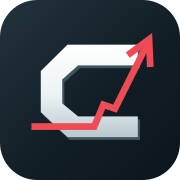
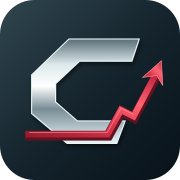
Add files via upload

diff --git a/app.js b/app.js
@@ -1,6 +1,6 @@
-import {sceneSvg} from './scene.js?v=1.2.0';
+import {sceneSvg} from './scene.js?v=1.3.0';
 
-const APP_VERSION='1.2.0';
+const APP_VERSION='1.3.0';
 const SAVE_KEY='clubline-career-r1';
 const SITES=[['city','Old Town'],['harbour','Harbourfront'],['university','University Quarter'],['gardens','Civic Gardens'],['rail','Rail District']];
 const COLOURS=['#862e43','#de414b','#e17837','#e7bd63','#257b5e','#1b8189','#3a6cbc','#633d8d','#edf0e9','#252c38'];
@@ -25,6 +25,9 @@ try {source=await (await fetch('./data/league.json',{cache:'no-store'})).json();
 catch(error){root.innerHTML='<main class="app-shell"><div class="shell-content"><h1>Clubline</h1><p>Could not load the league data. Open the game through a web server or GitHub Pages.</p></div></main>';throw error;}
 const club=id=>source.clubs.find(c=>c.id===id);
 const player=id=>source.players.find(p=>p.id===id);
+const owner=id=>career?.owners?.[id]||player(id)?.clubId;
+const squadPlayers=id=>source.players.filter(p=>owner(p.id)===id);
+const transferValue=p=>Math.round((p.overall-55)**2*4500+Math.max(0,p.potential-p.overall)*22000);
 const myClub=()=>club(career?.clubId||setup.clubId);
 const clubName=id=>career?.names?.[id]||setup.names?.[id]||club(id)?.name||id;
 const myColour=()=>career?.colour||setup.colour||myClub()?.colour||'#e5484f';
@@ -33,7 +36,7 @@ const slotsFor=f=>FORMATIONS[f||'4-3-3'].flat();
 const opposition=(fixture,me)=>fixture.home===me?fixture.away:fixture.home;
 
 function bestLineup(clubId,formation){
- const pool=source.players.filter(p=>p.clubId===clubId);
+ const pool=squadPlayers(clubId);
  const remaining=pool.filter(p=>!(career?.clubId===clubId&&career?.players?.[p.id]?.injuryDays>0));
  const slots=slotsFor(formation);
  const lineup=slots.map(pos=>{
@@ -60,11 +63,11 @@ function scheduleSeason(){
 }
 function newCareer(){
  const c=club(setup.clubId),choice=bestLineup(c.id,c.formation);
- career={version:1,clubId:c.id,names:{...setup.names},colour:setup.colour||c.colour,site:setup.site,date:'2026-08-13',time:'09:00',balance:c.budget*5,formation:c.formation,style:c.style,order:'Standard',lineup:choice.lineup,bench:choice.bench,players:Object.fromEntries(source.players.map(p=>[p.id,{fitness:p.fitness,form:[]}])),schedule:scheduleSeason(),reports:[],news:[],kit:{home:'solid',away:'stripes'}};
+ career={version:1,clubId:c.id,names:{...setup.names},colour:setup.colour||c.colour,site:setup.site,date:'2026-08-13',time:'09:00',balance:c.budget*5,formation:c.formation,style:c.style,order:'Standard',lineup:choice.lineup,bench:choice.bench,players:Object.fromEntries(source.players.map(p=>[p.id,{fitness:p.fitness,form:[]}])),owners:{},transferList:[],offers:[],schedule:scheduleSeason(),reports:[],news:[],kit:{home:'solid',away:'stripes'}};
  view='career';section='squad';sub='lineup';save();render();
 }
 function save(){if(career)localStorage.setItem(SAVE_KEY,JSON.stringify({career,match}));}
-function load(){try{const saved=JSON.parse(localStorage.getItem(SAVE_KEY));if(saved?.career?.version===1){career=saved.career;match=saved.match||null;return true}}catch{}return false}
+function load(){try{const saved=JSON.parse(localStorage.getItem(SAVE_KEY));if(saved?.career?.version===1){career=saved.career;career.owners??={};career.transferList??=[];career.offers??=[];match=saved.match||null;return true}}catch{}return false}
 const hasSave=()=>{try{return JSON.parse(localStorage.getItem(SAVE_KEY))?.career?.version===1}catch{return false}};
 function nextFixture(){if(!career)return null;for(const round of career.schedule){const f=round.fixtures.find(x=>(x.home===career.clubId||x.away===career.clubId)&&x.homeGoals===null);if(f)return {...f,date:round.date,round}}return null}
 function allResults(){return career.schedule.flatMap(r=>r.fixtures.filter(f=>f.homeGoals!==null).map(f=>({...f,date:r.date})))}
@@ -77,7 +80,7 @@ function standings(){
  return Object.values(table).sort((a,b)=>b.Pts-a.Pts||(b.GF-b.GA)-(a.GF-a.GA)||b.GF-a.GF||clubName(a.id).localeCompare(clubName(b.id)));
 }
 function toast(message){notice=message;document.querySelector('.toast')?.remove();const div=document.createElement('div');div.className='toast';div.textContent=message;document.body.appendChild(div);setTimeout(()=>div.remove(),3500)}
-function scene(current,site,open=false){return `<div class="scene ${open?'open':''}">${sceneSvg(current,site)}</div>`}
+function scene(current,site,open=false,crowd=false){return `<div class="scene ${open?'open':''}">${sceneSvg(current,site,crowd)}</div>`}
 function logo(small=false){return `<img class="logo ${small?'small':''}" src="assets/clubline-logo.svg?v=${APP_VERSION}" alt="Clubline">`}
 function titleView(){const c=club('C01');return `<div class="app-shell title-screen" style="--club:${c.colour}">${scene(c,'city',true)}<div class="shell-content"><div class="menu-hero"><div class="hero-copy glass">${logo()}<p class="title-tagline">Your club. Your call.</p><div class="hero-actions"><button class="btn primary arrow wide" data-action="new-game">New career</button>${hasSave()?'<button class="btn wide" data-action="continue">Continue</button>':''}</div><small>12 clubs · Premier Division · 22 fixtures</small><div class="update-area"><button class="btn ghost slim" data-action="check-update" ${checkingUpdate?'disabled':''}>${checkingUpdate?'Checking…':'↻ Check for updates'}</button><span class="build-label">v${APP_VERSION}</span>${availableVersion?'<button class="btn slim primary" data-action="load-update">Load update</button>':''}${updateMessage?`<p role="status">${html(updateMessage)}</p>`:''}</div></div></div></div></div>`}
 async function checkForUpdates(){
@@ -101,30 +104,36 @@ function setupView(){
 }
 
 function topbar(){const next=nextFixture();return `<header class="topbar">${logo(true)}<div class="top-pill"><small>Date / time</small><b>${fmtDate(career.date)} · ${career.time}</b></div><div class="top-pill"><small>Club balance</small><b class="money">${fmtMoney(career.balance)}</b></div><div class="top-pill"><small>Next match</small><b>${next?`${next.home===career.clubId?'H':'A'} · ${html(clubName(opposition(next,career.clubId)))}`:'Season complete'}</b></div><button class="btn slim ghost" data-action="menu">Menu</button></header>`}
-function dashboard(){const c=myClub(),next=nextFixture(),awayScene=match&&match.home!==career.clubId,backdrop=awayScene?club(match.home):{...c,colour:myColour()};return `<div class="app-shell" style="--club:${myColour()}">${scene(backdrop,awayScene?'city':career.site)}<div class="shell-content">${topbar()}<div class="dash-grid"><div><div class="glass panel welcome"><span class="eyebrow">${html(c.ground)} / ${c.capacity.toLocaleString('en-GB')} seats</span><h1>${html(clubName(c.id))}</h1><div class="next-line">${next?`Next: ${next.home===c.id?'at home to':'away at'} ${html(clubName(opposition(next,c.id)))} · ${fmtDate(next.date)}`:'The league season is complete.'}</div></div><nav class="section-nav" aria-label="Club sections">${[['squad','Squad'],['facilities','Facilities'],['finances','Finances'],['organiser','Organiser']].map(([id,label])=>`<button class="btn ${section===id?'active':''}" data-action="section" data-section="${id}">${label}</button>`).join('')}</nav></div><div class="glass panel section-content">${sectionContent()}</div></div><div class="advance-dock"><button class="btn primary arrow" data-action="advance">${next&&career.date===next.date?'Matchday':'Advance time'}</button><span>${next?`${next.date===career.date?'Kick-off event ahead':'Next fixture '+fmtDate(next.date)}`:'Season finished'}</span></div></div>${match?matchOverlay():''}</div>`}
+function dashboard(){const c=myClub(),next=nextFixture(),homeMatch=match&&match.home===career.clubId;return `<div class="app-shell" style="--club:${myColour()}">${scene({...c,colour:myColour()},career.site,false,homeMatch)}<div class="shell-content">${topbar()}<div class="dash-grid"><div><div class="glass panel welcome"><span class="eyebrow">${html(c.ground)} / ${c.capacity.toLocaleString('en-GB')} seats</span><h1>${html(clubName(c.id))}</h1><div class="next-line">${next?`Next: ${next.home===c.id?'at home to':'away at'} ${html(clubName(opposition(next,c.id)))} · ${fmtDate(next.date)}`:'The league season is complete.'}</div></div><nav class="section-nav" aria-label="Club sections">${[['squad','Squad'],['facilities','Facilities'],['finances','Finances'],['organiser','Organiser']].map(([id,label])=>`<button class="btn ${section===id?'active':''}" data-action="section" data-section="${id}">${label}</button>`).join('')}</nav></div><div class="glass panel section-content">${sectionContent()}</div></div><div class="advance-dock"><button class="btn primary arrow" data-action="advance">${next&&career.date===next.date?'Matchday':'Advance time'}</button><span>${next?`${next.date===career.date?'Kick-off event ahead':'Next fixture '+fmtDate(next.date)}`:'Season finished'}</span></div></div>${match?matchOverlay():''}${career.offers?.some(o=>o.status==='new')?`<button class="offer-alert" data-action="open-offers">Transfer offer received · Review →</button>`:''}</div>`}
 
 function sectionContent(){return section==='squad'?squadSection():section==='facilities'?facilitiesSection():section==='finances'?financesSection():organiserSection()}
 
 function tabBar(items){return `<div class="tabs">${items.map(([key,label])=>`<button class="btn ${sub===key?'selected':''}" data-action="sub" data-sub="${key}">${label}</button>`).join('')}</div>`}
 function squadSection(){
- const tabs=[['lineup','Starting XI'],['formation','Formation'],['style','Play style'],['orders','Orders'],['form','Form charts']];
+ const tabs=[['lineup','Starting XI'],['transfers','Transfers'],['formation','Formation'],['style','Play style'],['orders','Orders'],['form','Form charts']];
  let content='';
  if(sub==='lineup') content=lineupEditor(false);
+ if(sub==='transfers') content=transfersSection();
  if(sub==='formation') content=`<p>Choose a shape. The current players stay in their positions until you arrange them again.</p><div class="choice-grid">${Object.keys(FORMATIONS).map(f=>`<button class="btn ${career.formation===f?'selected':''}" data-action="formation" data-value="${f}">${f}</button>`).join('')}</div>`;
  if(sub==='style') content=`<p>Your approach changes how many chances your side creates and concedes.</p><div class="choice-grid">${STYLES.map(x=>`<button class="btn ${career.style===x?'selected':''}" data-action="style" data-value="${x}">${x}</button>`).join('')}</div>`;
  if(sub==='orders') content=`<p>Set an overall match instruction. You can change this during a watched game.</p><div class="choice-grid">${ORDERS.map(x=>`<button class="btn ${career.order===x?'selected':''}" data-action="order" data-value="${x}">${x}</button>`).join('')}</div>`;
  if(sub==='form') content=`<p>Recent league results and the players who have stood out.</p><div class="list">${career.reports.slice(-5).reverse().map(r=>`<div class="row"><span>${fmtDate(r.date)} · ${html(clubName(r.opponent))}</span><b>${r.us}-${r.them}</b></div>`).join('')||'<div class="empty-note">No games played yet.</div>'}</div><div class="divider"></div><div class="list">${career.lineup.map(id=>{const p=player(id),form=career.players[id].form;return `<div class="row"><span>${html(p.name)} <small>${p.primary}</small></span><b>${form.length?(form.reduce((a,b)=>a+b,0)/form.length).toFixed(1):'—'}</b></div>`}).join('')}</div>`;
  return `<span class="eyebrow">Football / Squad</span><h2>Shape your eleven</h2>${tabBar(tabs)}${content}`;
 }
+function transfersSection(){
+ const listed=source.players.filter(p=>owner(p.id)!==career.clubId).filter(p=>career.transferList.includes(p.id)||p.overall<72).sort((a,b)=>b.overall-a.overall).slice(0,35);
+ const my=squadPlayers(career.clubId).sort((a,b)=>b.overall-a.overall);
+ return `<p>Scout the division, inquire about availability, and negotiate a fee. Clubs can accept, reject or counter an offer.</p><h3>Transfer proposals</h3><div class="list">${career.offers.filter(o=>o.status==='new'||o.status==='counter').map(o=>`<div class="transfer-row"><span><b>${html(player(o.id).name)}</b><small>${o.incoming?'Your bid to '+html(clubName(o.clubId)):html(clubName(o.clubId))+' bid'} · ${fmtMoney(o.fee)} ${o.status==='counter'?'counteroffer':'offer'}</small></span><button class="btn slim primary" data-action="accept-offer" data-id="${o.id}" data-club="${o.clubId}">Accept</button><button class="btn slim" data-action="counter-offer" data-id="${o.id}" data-club="${o.clubId}">${o.incoming?'Wait':'Counter'}</button><button class="btn slim ghost" data-action="reject-offer" data-id="${o.id}" data-club="${o.clubId}">Reject</button></div>`).join('')||'<div class="empty-note">No proposals waiting.</div>'}</div><h3>Your squad · ${my.length} players</h3><div class="transfer-list">${my.map(p=>`<div class="transfer-row"><span><b>${html(p.name)}</b><small>${p.primary} · ${p.overall} OVR · value ${fmtMoney(transferValue(p))}</small></span><button class="btn slim ${career.transferList.includes(p.id)?'selected':''}" data-action="list-player" data-id="${p.id}">${career.transferList.includes(p.id)?'Listed ✓':'List'}</button></div>`).join('')}</div><h3>Market</h3><div class="transfer-list">${listed.map(p=>`<div class="transfer-row"><span><b>${html(p.name)}</b><small>${html(clubName(owner(p.id)))} · ${p.primary} · ${p.overall} OVR · ${fmtMoney(transferValue(p))}</small></span><button class="btn slim" data-action="inquire" data-id="${p.id}">Inquire</button><button class="btn slim primary" data-action="bid" data-id="${p.id}">Bid</button></div>`).join('')}</div>`;
+}
 function shirt(p,compact=false){return `<span class="shirt ${compact?'shirt-small':''}" style="--shirt:${myColour()}"><b>${p?html(p.number):'–'}</b></span>`}
 function lineupEditor(inModal=false){
- const pool=source.players.filter(p=>p.clubId===career.clubId).sort((a,b)=>b.overall-a.overall);
+ const pool=squadPlayers(career.clubId).sort((a,b)=>b.overall-a.overall);
  let idx=0;
  const pitch=FORMATIONS[career.formation].map(line=>`<div class="pitch-line">${line.map(pos=>{const at=idx++,id=career.lineup[at],p=player(id);return `<button class="slot shirt-slot ${!p?'empty':''} ${selectedSlot===at?'selected':''}" data-action="slot" data-index="${at}" data-drop-slot="${at}" aria-label="${pos}: ${p?html(p.name)+', rated '+p.overall+', condition '+playerFitness(id)+' percent':'Empty'}"><span class="slot-name">${p?html(p.name.split(' ').at(-1)):'Select'}</span>${shirt(p)}<span class="slot-stats">${pos} · ${p?p.overall:'—'} · ${p?playerFitness(id)+'%':'—'}</span></button>`}).join('')}</div>`).join('');
  return `<div class="squad-toolbar"><span class="badge">${career.formation}</span><span class="badge">${career.style}</span><button class="btn slim" data-action="auto-lineup">Auto pick</button></div><div class="formation-pitch">${pitch}</div><small>Bench · tap a player, then a slot. Drag and drop also works.</small><div class="bench shirt-bench">${career.bench.map((id,i)=>{const p=player(id);return `<button class="slot shirt-slot ${selectedSlot===11+i?'selected':''}" data-action="slot" data-index="${11+i}" data-drop-slot="${11+i}"><span class="slot-name">${p?html(p.name.split(' ').at(-1)):'Select'}</span>${shirt(p,true)}<span class="slot-stats">${p?p.primary+' · '+p.overall+' · '+playerFitness(id)+'%':'Empty'}</span></button>`}).join('')}</div><div class="player-list">${pool.map(p=>`<button draggable="true" class="player-card ${selectedPlayer===p.id?'active':''}" data-action="select-player" data-player="${p.id}">${shirt(p,true)}<span class="player-card-copy"><strong>${html(p.name)}</strong><span class="meta">${p.primary}${p.secondary?' / '+p.secondary:''} · ${p.overall} OVR · ${playerFitness(p.id)}% condition</span><span class="meta">Age ${p.age} ${career.lineup.includes(p.id)?'· XI':career.bench.includes(p.id)?'· Bench':''}</span></span></button>`).join('')}</div>${inModal?'<div class="modal-actions"><button class="btn primary" data-action="confirm-lineup">Confirm lineup</button></div>':''}`;
 }
 function facilitiesSection(){return `<span class="eyebrow">Club / Facilities</span><h2>${html(myClub().ground)}</h2><p>Your ${myClub().capacity.toLocaleString('en-GB')}-seat ground is the visible home of the club. Stadium construction and groundskeeping are planned for a later release.</p><div class="detail-row"><span>Location</span><b>${html(SITES.find(x=>x[0]===career.site)?.[1])}</b></div><div class="detail-row"><span>Seat colour</span><b><span style="display:inline-block;width:15px;height:15px;background:${myColour()};vertical-align:middle"></span> ${html(myColour().toUpperCase())}</b></div><div class="detail-row"><span>Capacity</span><b>${myClub().capacity.toLocaleString('en-GB')}</b></div><div class="empty-note" style="margin-top:18px">The ground and its colour are visible now. Designer, facilities and site compatibility upgrades follow in Release 3.</div>`}
-function financesSection(){const home=career.reports.filter(r=>r.home),income=home.reduce((n,r)=>n+r.income,0);return `<span class="eyebrow">Club / Finances</span><h2>Club balance</h2><div class="stat-pair"><div class="stat-block"><small>Available cash</small><strong style="font-size:1.7rem">${fmtMoney(career.balance)}</strong></div><div class="stat-block"><small>Home income</small><strong style="font-size:1.7rem">${fmtMoney(income)}</strong></div></div><p>Home fixtures produce ticket, food and shop income automatically in this release. The breakdown appears on each match report.</p><div class="detail-row"><span>Weekly squad wages</span><b>${fmtMoney(source.players.filter(p=>p.clubId===career.clubId).reduce((n,p)=>n+p.wage,0))}</b></div><div class="detail-row"><span>Matchday pricing</span><b>Standard for the league</b></div><div class="empty-note" style="margin-top:18px">Pricing, concessions, commercial events and seasonal kit redesigns are planned for later releases.</div>`}
+function financesSection(){const home=career.reports.filter(r=>r.home),income=home.reduce((n,r)=>n+r.income,0);return `<span class="eyebrow">Club / Finances</span><h2>Club balance</h2><div class="stat-pair"><div class="stat-block"><small>Available cash</small><strong style="font-size:1.7rem">${fmtMoney(career.balance)}</strong></div><div class="stat-block"><small>Home income</small><strong style="font-size:1.7rem">${fmtMoney(income)}</strong></div></div><p>Home fixtures produce ticket, food and shop income automatically in this release. The breakdown appears on each match report.</p><div class="detail-row"><span>Weekly squad wages</span><b>${fmtMoney(squadPlayers(career.clubId).reduce((n,p)=>n+p.wage,0))}</b></div><div class="detail-row"><span>Matchday pricing</span><b>Standard for the league</b></div><div class="empty-note" style="margin-top:18px">Pricing, concessions, commercial events and seasonal kit redesigns are planned for later releases.</div>`}
 function organiserSection(){
  const table=standings(),next=nextFixture(),fixtureLines=career.schedule.flatMap(r=>r.fixtures.filter(f=>f.home===career.clubId||f.away===career.clubId).map(f=>({...f,date:r.date}))).filter(f=>f.homeGoals===null).slice(0,5);
  return `<span class="eyebrow">Season / Organiser</span><h2>Premier Division</h2>${tabBar([['table','Table'],['calendar','Calendar'],['news','League news']])}${sub==='calendar'?`<div class="list">${fixtureLines.map(f=>`<div class="row"><span>${fmtDate(f.date)}<br><small>${f.home===career.clubId?'Home':'Away'} · ${html(clubName(opposition(f,career.clubId)))}</small></span><b>15:00</b></div>`).join('')||'<div class="empty-note">All league fixtures have been played.</div>'}</div>`:sub==='news'?`<div class="list">${career.news.slice(-12).reverse().map(n=>`<div class="row"><span>${html(n.text)}</span><small>${fmtDate(n.date)}</small></div>`).join('')||'<div class="empty-note">The season is just beginning. Results and injuries will appear here.</div>'}</div>`:`<div class="table-wrap"><table class="league-table"><thead><tr><th>#</th><th>Club</th><th>P</th><th>W</th><th>D</th><th>L</th><th>GD</th><th>Pts</th></tr></thead><tbody>${table.map((t,i)=>`<tr class="${t.id===career.clubId?'mine':''}"><td>${i+1}</td><td>${html(clubName(t.id))}</td><td>${t.P}</td><td>${t.W}</td><td>${t.D}</td><td>${t.L}</td><td>${t.GF-t.GA}</td><td><b>${t.Pts}</b></td></tr>`).join('')}</tbody></table></div><p style="margin-top:14px">${next?'Next round '+fmtDate(next.date):'Season complete'}</p>`}`;
@@ -139,12 +148,23 @@ function advance(){
  if(!next){toast('The season is complete. Check the final table in Organiser.');return}
  if(career.date===next.date&&career.time==='09:00'){career.time='14:45';match={phase:'choice',fixtureDate:next.date,home:next.home,away:next.away,homeGoals:0,awayGoals:0,minute:0,added:2,events:[],paused:false,speed:4,subCount:0,ratings:{},goalCounts:{},cardCounts:{},injured:[],participants:{},lineup:[...career.lineup],bench:[...career.bench]};save();render();return}
  career.date=addDays(career.date,1);career.time='09:00';
- for(const p of source.players.filter(x=>x.clubId===career.clubId)){
+ for(const p of squadPlayers(career.clubId)){
   const state=career.players[p.id];if(state.injuryDays>0)state.injuryDays--;
   state.fitness=Math.min(100,state.fitness+(state.injuryDays?1:Math.max(2,Math.round((100-state.fitness)*.18))));
  }
- if(new Date(career.date+'T12:00:00Z').getUTCDay()===1){const wages=source.players.filter(p=>p.clubId===career.clubId).reduce((n,p)=>n+p.wage,0);career.balance-=wages;career.news.push({date:career.date,text:`Weekly wages paid: ${fmtMoney(wages)}.`})}
+ if(Math.random()<.025){const fit=squadPlayers(career.clubId).filter(p=>!career.players[p.id].injuryDays);const p=rand(fit);if(p){career.players[p.id].injuryDays=2+Math.floor(Math.random()*8);career.news.push({date:career.date,text:`Training injury: ${p.name} will miss ${career.players[p.id].injuryDays} days.`});section='squad';sub='lineup'}}
+ if(new Date(career.date+'T12:00:00Z').getUTCDay()===1){const wages=squadPlayers(career.clubId).reduce((n,p)=>n+p.wage,0);career.balance-=wages;career.news.push({date:career.date,text:`Weekly wages paid: ${fmtMoney(wages)}.`})}
+ for(const o of career.offers.filter(x=>x.status==='pending')){if(Math.random()<.55){o.status=Math.random()<.55?'new':'rejected';career.news.push({date:career.date,text:`${clubName(o.clubId)} ${o.status==='new'?'agreed to discuss':'declined'} your counter proposal for ${player(o.id).name}.`});if(o.status==='new'){section='squad';sub='transfers'}}}
+ if(Math.random()<.10&&career.offers.filter(o=>o.status==='new').length<2){const candidate=rand(squadPlayers(career.clubId).filter(p=>!career.offers.some(o=>o.id===p.id&&['new','pending'].includes(o.status))&&(p.primary!=='GK'||squadPlayers(career.clubId).filter(x=>x.primary==='GK').length>2)));const buyer=rand(source.clubs.filter(c=>c.id!==career.clubId));if(candidate){career.offers.push({id:candidate.id,clubId:buyer.id,fee:Math.round(transferValue(candidate)*(career.transferList.includes(candidate.id)?1.12:.85)/10000)*10000,status:'new'});career.news.push({date:career.date,text:`${clubName(buyer.id)} offered for ${candidate.name}. Review the proposal in Squad → Transfers.`});section='squad';sub='transfers'}}
  save();render();
+}
+function resolveTransfer(id,newClub,fee){
+ const p=player(id),oldClub=owner(id);if(!p||!oldClub||oldClub===newClub)return;
+ career.owners[id]=newClub;career.transferList=career.transferList.filter(x=>x!==id);
+ career.offers=career.offers.filter(o=>o.id!==id);
+ career.balance+=newClub===career.clubId?-fee:fee;
+ if(oldClub===career.clubId||newClub===career.clubId){const picks=bestLineup(career.clubId,career.formation);career.lineup=picks.lineup;career.bench=picks.bench}
+ career.news.push({date:career.date,text:`Transfer: ${p.name} moves from ${clubName(oldClub)} to ${clubName(newClub)} for ${fmtMoney(fee)}.`});save();render();
 }
 function beginMatch(mode){
  if(mode==='simulate'&&!validLineup()){toast('The saved lineup needs changes. Use Auto pick or confirm a watched lineup.');return}
@@ -254,7 +274,7 @@ function matchOverlay(){
  if(match.phase==='report'){
   const report=career.reports.at(-1);body=`<span class="eyebrow">Full-time / ${fmtDate(report.date)}</span><h2>Match report card</h2><div class="scoreline"><span>${html(clubName(match.home))}</span><strong>${match.homeGoals} : ${match.awayGoals}</strong><span>${html(clubName(match.away))}</span></div><div class="report-grid"><div><small>Attendance</small><strong>${report.home?report.attendance.toLocaleString('en-GB'):'Away'}</strong></div><div><small>Ticket sales</small><strong>${fmtMoney(report.tickets)}</strong></div><div><small>Food & drink</small><strong>${fmtMoney(report.concessions)}</strong></div><div><small>Club shop</small><strong>${fmtMoney(report.shop)}</strong></div></div><p>Matchday costs: ${fmtMoney(report.operating)} · Net home income: ${fmtMoney(report.income)}</p><div class="match-columns"><div><h3>Your players</h3><div class="report-list list">${report.performances.sort((a,b)=>(b.rating||0)-(a.rating||0)).map(x=>`<div class="row"><span><b>${html(player(x.id).name)}</b><br><small>${player(x.id).primary} · ${x.minutes} min · ${x.goals?x.goals+' goal'+(x.goals>1?'s':'')+' · ':''}${x.cards?'Card · ':''}${x.injuryDays?'Injured · ':''}Fit ${x.fitness}%</small></span><strong>${x.rating??'—'}</strong></div>`).join('')}</div></div><div><h3>Key moments</h3><div class="commentary">${report.events.filter(e=>['goal','yellow','red','injury','chance'].includes(e.type)).map(e=>`<div class="comment ${e.type}"><small>${clockLabel(e.minute)}</small><br>${html(e.text)}</div>`).join('')||'<div class="muted">A quiet game.</div>'}</div></div></div><div class="modal-actions"><button class="btn primary arrow" data-action="close-report">Continue career</button></div>`;
  }
- return `<div class="overlay" role="dialog" aria-modal="true" aria-label="Matchday"><div class="modal"><div class="modal-head"><div style="flex:1">${body}</div></div></div></div>`;
+ return `<div class="overlay" role="dialog" aria-modal="true" aria-label="Matchday"><div class="modal">${home?`<div class="match-ground" aria-label="Crowd at ${html(myClub().ground)}">${sceneSvg({...myClub(),colour:myColour()},career.site,true)}<span>${html(myClub().ground)} · ${myClub().capacity.toLocaleString('en-GB')} seats</span></div>`:''}<div class="modal-head"><div style="flex:1">${body}</div></div></div></div>`;
 }
 
 function swapLineup(target,id){
@@ -291,6 +311,11 @@ root.addEventListener('click',event=>{
  else if(action==='start-season')newCareer();
  else if(action==='section'){section=el.dataset.section;sub=section==='organiser'?'table':'lineup';render()}
  else if(action==='sub'){sub=el.dataset.sub;render()}
+ else if(action==='open-offers'){section='squad';sub='transfers';render()}
+ else if(action==='list-player'){const id=el.dataset.id;if(career.transferList.includes(id))career.transferList=career.transferList.filter(x=>x!==id);else career.transferList.push(id);save();render()}
+ else if(action==='inquire'){const p=player(el.dataset.id);toast(`${clubName(owner(p.id))} value ${p.name} around ${fmtMoney(transferValue(p))}.`)}
+ else if(action==='bid'){const p=player(el.dataset.id),fee=Math.round(transferValue(p)*1.1/10000)*10000;if(career.balance<fee){toast(`You need ${fmtMoney(fee)} to make this bid.`);return}if(squadPlayers(owner(p.id)).length<=18){toast('That club needs to keep enough players for its matchday squad.');return}if(Math.random()<.65||career.transferList.includes(p.id)){resolveTransfer(p.id,career.clubId,fee);toast(`${p.name} joins your club for ${fmtMoney(fee)}.`)}else{career.offers.push({id:p.id,clubId:owner(p.id),fee:Math.round(fee*1.2/10000)*10000,status:'counter',incoming:true});career.news.push({date:career.date,text:`${clubName(owner(p.id))} countered your bid for ${p.name}.`});save();render();toast('The selling club has countered your offer.')}}
+ else if(['accept-offer','counter-offer','reject-offer'].includes(action)){const id=el.dataset.id,clubId=el.dataset.club,o=career.offers.find(x=>x.id===id&&x.clubId===clubId&&(x.status==='new'||x.status==='counter'));if(!o)return;if(action==='reject-offer'){o.status='rejected';save();render();return}if(action==='counter-offer'){if(o.incoming){toast('The selling club is waiting on your decision.');return}o.fee=Math.round(o.fee*1.2/10000)*10000;o.status='pending';save();render();toast(`Counter proposal sent: ${fmtMoney(o.fee)}.`);return}if(o.incoming){if(career.balance<o.fee){toast('Your club cannot afford that fee.');return}resolveTransfer(id,career.clubId,o.fee)}else{if(squadPlayers(career.clubId).length<=18){toast('Keep at least 18 players in your squad.');return}resolveTransfer(id,clubId,o.fee)}}
  else if(action==='advance')advance();
  else if(action==='auto-lineup'){const picks=bestLineup(career.clubId,career.formation);career.lineup=picks.lineup;career.bench=picks.bench;save();render()}
  else if(action==='formation'){career.formation=el.dataset.value;save();render()}

diff --git a/scene.js b/scene.js
@@ -3,10 +3,25 @@ const poly = (pts, fill, stroke = '#24353d', extra = '') => `<polygon points="${
 const ring = (outer, inner, color) => outer.map((p,i)=>poly([p,outer[(i+1)%4],inner[(i+1)%4],inner[i]],color,'#182d33')).join('');
 const diamond = (cx,cy,rx,ry) => [[cx,cy-ry],[cx+rx,cy],[cx,cy+ry],[cx-rx,cy]];
 
-export function sceneSvg(club, site='city') {
+export function sceneSvg(club, site='city', crowd=false) {
  const colour=safe(club?.colour||'#a23545');
  const capacity=club?.capacity||39000;
  const variant=Number(String(club?.id||'C05').slice(1))||5;
+ const presets=[
+  {name:'Grand bowl',roof:'all',tiers:2,lights:4},
+  {name:'Four covered stands',roof:'all',tiers:2,lights:2},
+  {name:'East end arena',roof:'east',tiers:2,lights:4},
+  {name:'Industrial ground',roof:'north',tiers:2,lights:4},
+  {name:'Thistle Park',roof:'opposite',tiers:2,lights:2},
+  {name:'Civic stadium',roof:'all',tiers:1,lights:4},
+  {name:'Albion terraces',roof:'south',tiers:2,lights:4},
+  {name:'Dockside ground',roof:'west',tiers:1,lights:4},
+  {name:'Crowmere End',roof:'opposite',tiers:1,lights:2},
+  {name:'Valley ground',roof:'north',tiers:1,lights:4},
+  {name:'Rath Park',roof:'east',tiers:1,lights:2},
+  {name:'Compact terraces',roof:'none',tiers:1,lights:4}
+ ];
+ const preset=presets[Math.max(0,Math.min(11,variant-1))];
  const depth=capacity>=47000?1.08:capacity>=33000?1:0.91;
  const outer=diamond(530,340,370*depth,155*depth);
  const upper=diamond(530,340,326*depth,134*depth);
@@ -26,19 +41,24 @@ export function sceneSvg(club, site='city') {
   const rightY=outer[1][1]+(outer[2][1]-outer[1][1])*t;
   return `<path d="M${leftX} ${leftY}l21 12M${rightX} ${rightY}l-21 12" stroke="#ecedf099" stroke-width="2" opacity=".65"/>`;
  }).join('');
- const upperRing=outer.map((p,i)=>poly([p,outer[(i+1)%4],upper[(i+1)%4],upper[i]],i===variant%4?'#42515a':'#293e47','#182d33')).join('');
+ const upperRing=outer.map((p,i)=>poly([p,outer[(i+1)%4],upper[(i+1)%4],upper[i]],preset.tiers===2?i===variant%4?'#53636b':'#34464f':'#273940','#182d33')).join('');
  const lowerRing=upper.map((p,i)=>poly([p,upper[(i+1)%4],lower[(i+1)%4],lower[i]],colour,'#182d33',i===variant%4?'opacity=".76"':'')).join('');
  const innerRing=ring(lower,pitch,'#52616a');
- const northRoof=poly([[530,172],[856,305],[826,318],[530,200]],'#465660','#a8bcc1');
- const southRoof=poly([[200,375],[530,502],[530,480],[234,361]],'#344a53','#9badb3');
- const westRoof=poly([[190,305],[530,172],[530,200],[220,320]],'#3b5058','#92abb2');
- const roofs=(capacity>=47000?northRoof+southRoof:variant%3===0?westRoof:variant%3===1?northRoof:southRoof);
+ const roofSides=outer.map((p,i)=>{
+  const q=outer[(i+1)%4],a=upper[i],b=upper[(i+1)%4];
+  return poly([p,q,b,a],i%2?'#334954':'#4c6069','#aabfc3',`opacity="${preset.roof==='all'?'.88':'.95'}"`);
+ });
+ const roofIndices={all:[0,1,2,3],opposite:[0,2],north:[0],east:[1],south:[2],west:[3],none:[]}[preset.roof];
+ const roofs=roofIndices.map(i=>roofSides[i]).join('');
+ const facade=outer.map((p,i)=>{const q=outer[(i+1)%4];return `<path d="M${p[0]} ${p[1]}L${q[0]} ${q[1]}l0 22L${p[0]} ${p[1]+22}Z" fill="${i%2?'#20323b':'#2e424a'}" stroke="#6c8388" stroke-width="2"/>`}).join('');
+ const masts=[[145,230],[905,225],[145,460],[920,468]].slice(0,preset.lights).map(([x,y])=>`<path d="M${x} ${y}v-92" stroke="#82949a" stroke-width="6"/><path d="M${x-19} ${y-94}h38v-13h-38z" fill="#e7e1c4"/>`).join('');
+ const crowdDots=crowd?Array.from({length:90},(_,i)=>{const side=i%4,t=(Math.floor(i/4)+.5)/23,a=upper[side],b=upper[(side+1)%4],c=lower[side],d=lower[(side+1)%4],x=(a[0]+c[0])/2+((b[0]+d[0]-a[0]-c[0])/2)*t,y=(a[1]+c[1])/2+((b[1]+d[1]-a[1]-c[1])/2)*t;return `<circle cx="${x.toFixed(1)}" cy="${y.toFixed(1)}" r="2.5" fill="${i%5===0?'#fff1d0':i%3===0?'#a9c8d4':'#e3aeb3'}"/>`}).join(''):'';
  return `<svg viewBox="0 0 1100 650" preserveAspectRatio="xMidYMid slice" xmlns="http://www.w3.org/2000/svg" role="img" aria-label="Isometric view of ${safe(club?.ground||'a football stadium')}">
  <defs><linearGradient id="sky" x2="0" y2="1"><stop stop-color="${theme[0]}"/><stop offset="1" stop-color="#12242b"/></linearGradient><linearGradient id="grass" x2="0" y2="1"><stop stop-color="#479068"/><stop offset="1" stop-color="#225a46"/></linearGradient><filter id="shadow"><feGaussianBlur stdDeviation="20"/></filter></defs>
  <rect width="1100" height="650" fill="url(#sky)"/><path d="M0 215L530 65 1100 214v435H0z" fill="${theme[1]}"/><path d="M0 331L536 146 1100 316v91L532 223 0 415Z" fill="${theme[2]}" opacity=".43"/><path d="M0 340L539 158 1100 329M0 396L538 214 1100 385" fill="none" stroke="#d9d7c6" stroke-width="2" stroke-dasharray="21 17" opacity=".47"/>
  ${buildings}<path d="M-40 536L470 357 1110 540v110H-40z" fill="#364644"/><path d="M0 551L470 386 1080 558" fill="none" stroke="#b8aa89" stroke-width="8" opacity=".54"/>
  <ellipse cx="530" cy="386" rx="395" ry="140" fill="#03090d" opacity=".5" filter="url(#shadow)"/>
- ${poly(outer,'#1b2c34','#0b1a20')}${upperRing}${lowerRing}${innerRing}${poly(pitch,'url(#grass)','#dbebd8')}
+ ${masts}${facade}${poly(outer,'#1b2c34','#0b1a20')}${upperRing}${lowerRing}${innerRing}${crowdDots}${poly(pitch,'url(#grass)','#dbebd8')}
  <path d="M530 252L530 428M350 340L710 340" stroke="#e5f3da" stroke-width="2" opacity=".73" transform="scale(1 ${88*depth/(115*depth)}) translate(0 120)"/>
  <ellipse cx="530" cy="340" rx="45" ry="15" fill="none" stroke="#e5f3da" stroke-width="2" opacity=".7"/>
  ${ribs}${roofs}

diff --git a/style.css b/style.css
@@ -26,3 +26,5 @@
 @media(max-width:850px){.topbar .logo{width:157px}}
 @media(max-width:540px){.title-screen .hero-copy .logo{max-width:100%}.title-screen .title-tagline{font-size:1.25rem}}
 .update-area{margin-top:22px;padding-top:13px;border-top:1px solid #ffffff28;display:flex;align-items:center;gap:7px;flex-wrap:wrap}.update-area .btn.ghost{color:#c8d5da;padding-left:0}.update-area .build-label{font-size:.69rem;color:#95a8af;margin-left:auto}.update-area p{flex-basis:100%;margin:2px 0 0;font-size:.78rem;color:#d8e4e6;line-height:1.35}
+.transfer-list{max-height:245px;overflow:auto;margin:8px 0 20px;border:1px solid #ffffff22}.transfer-row{display:flex;align-items:center;gap:6px;padding:10px;border-bottom:1px solid #ffffff1b}.transfer-row>span{flex:1;min-width:120px}.transfer-row b,.transfer-row small{display:block}.transfer-row small{font-size:.72rem;color:#b7c5ca;margin-top:4px}.transfer-row .btn{padding:6px 9px;min-height:33px}.offer-alert{position:fixed;z-index:10;right:20px;bottom:20px;background:#bd3948;color:white;border:1px solid #ffafae;padding:12px 18px;font-weight:800;cursor:pointer;box-shadow:0 8px 22px #0009}.match-ground{height:150px;position:relative;overflow:hidden;margin:-12px -12px 17px;border-bottom:2px solid var(--club);background:#142c36}.match-ground svg{width:100%;height:100%;object-fit:cover}.match-ground span{position:absolute;bottom:0;left:0;background:#0b1824df;color:white;padding:5px 9px;font:700 .72rem Arial,sans-serif}
+@media(max-width:540px){.transfer-row{flex-wrap:wrap}.transfer-row>span{flex-basis:100%}.offer-alert{bottom:80px;left:14px;right:14px}.match-ground{height:112px}}

diff --git a/index.html b/index.html
@@ -6,13 +6,13 @@
   <meta name="theme-color" content="#111a20">
   <meta name="description" content="Clubline — a compact football club career game.">
   <title>Clubline</title>
-  <link rel="icon" href="assets/icon.svg?v=1.2.0" type="image/svg+xml">
-  <link rel="apple-touch-icon" href="assets/icon-180.png?v=1.2.0">
-  <link rel="manifest" href="manifest.webmanifest?v=1.2.0">
-  <link rel="stylesheet" href="style.css?v=1.2.0">
+  <link rel="icon" href="assets/icon.svg?v=1.3.0" type="image/svg+xml">
+  <link rel="apple-touch-icon" href="assets/icon-180.png?v=1.3.0">
+  <link rel="manifest" href="manifest.webmanifest?v=1.3.0">
+  <link rel="stylesheet" href="style.css?v=1.3.0">
 </head>
 <body>
   <div id="app" aria-live="polite"></div>
-  <script type="module" src="app.js?v=1.2.0"></script>
+  <script type="module" src="app.js?v=1.3.0"></script>
 </body>
 </html>

diff --git a/README.md b/README.md
@@ -1,4 +1,4 @@
-# Clubline — Release 1.2
+# Clubline — Release 1.3
 
 An independent, mobile-first football club career prototype. It does not read or overwrite GROUNDS saves.
 
@@ -12,9 +12,11 @@ Choose one of 12 fictional clubs in the Premier Division, optionally rename any 
 
 Select numbered player shirts by tapping a name then an XI or bench slot. Each shirt shows the surname, position, overall rating and condition. Drag and drop also works. Use the Formation, Play style and Orders tabs for your match plan. Advance through dates with the button at the bottom left. On matchday you can simulate instantly or confirm your lineup and watch the text match at three speeds. Goals, cards, injuries and half-time pause play. Full-time reports include player ratings, minutes, condition and home match revenue.
 
+The Transfers tab lets you list players, inquire about valuations, bid for players in the division and respond to proposals. Incoming offers appear as a shortcut when the day advances. Training injuries occasionally appear in the league news. A sale or purchase updates both squads and refreshes your lineup.
+
 ## Scope of this release
 
-The ground preview is a new schematic isometric scene, with size, roof, location and seat colour variations. Detailed stadium assets, construction, full kit editing, transfers, pricing and venue operations are scheduled for later releases. The single season can be restarted with New career; there is no GROUNDS save migration.
+The 12 club grounds have individual schematic stand and roof profiles, scaled by capacity, with the chosen location and primary seat colour. Home match overlays show the ground with a crowd; away match overlays focus on text and result. Construction, full kit editing, pricing and venue operations are scheduled for later releases. The single season can be restarted with New career; there is no GROUNDS save migration.
 
 The finances are provisional: opening cash derives from the club's pilot budget, weekly wages are deducted on Mondays, and home matchday income is estimated automatically. Opponent match results use club attack and defence ratings. The user's watched and quick-simulated matches use the same event engine, with live tactical choices affecting later chances.
 
@@ -22,6 +24,6 @@ The finances are provisional: opening cash derives from the club's pilot budget,
 
 - `index.html`, `style.css`, `app.js`, `scene.js`: the standalone game.
 - `data/league.json`: 12 clubs and 288 player records with recalibrated positional ratings.
-- `assets/clubline-logo.svg`: the new Clubline wordmark and rising red arrow.
+- `assets/clubline-logo.svg`: the approved chrome Clubline wordmark and metallic red arrow.
 - `assets/icon.svg` and `assets/icon-192.png`, `icon-512.png`, `icon-180.png`: the angular C and trend arrow app icon.
 - `manifest.webmanifest`, `version.json`: install branding and update checking.
